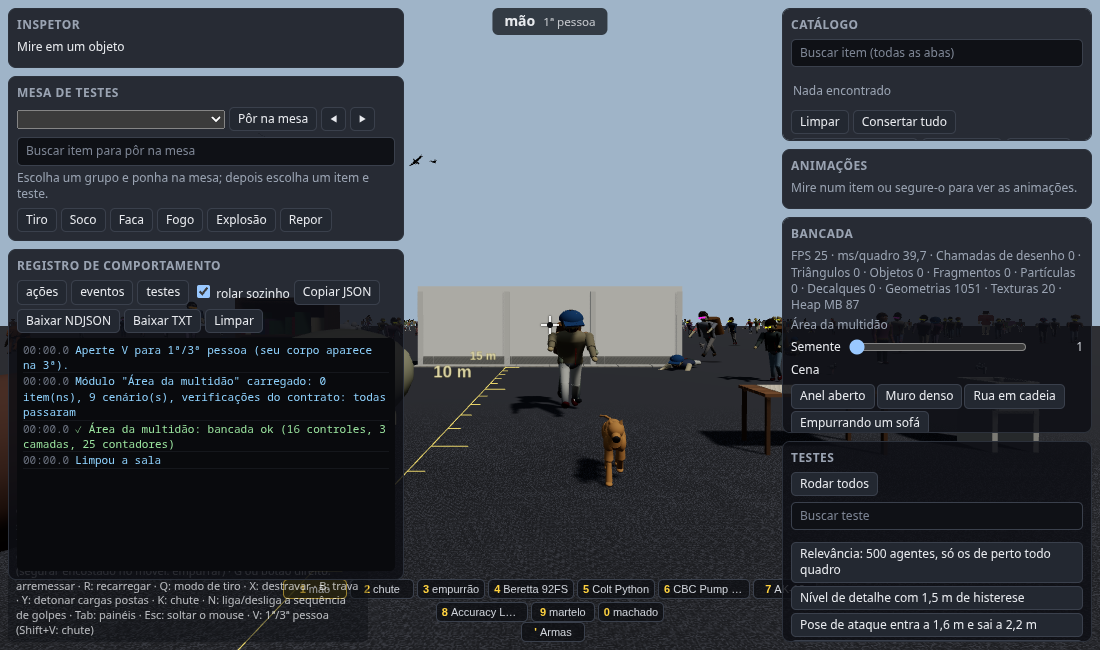
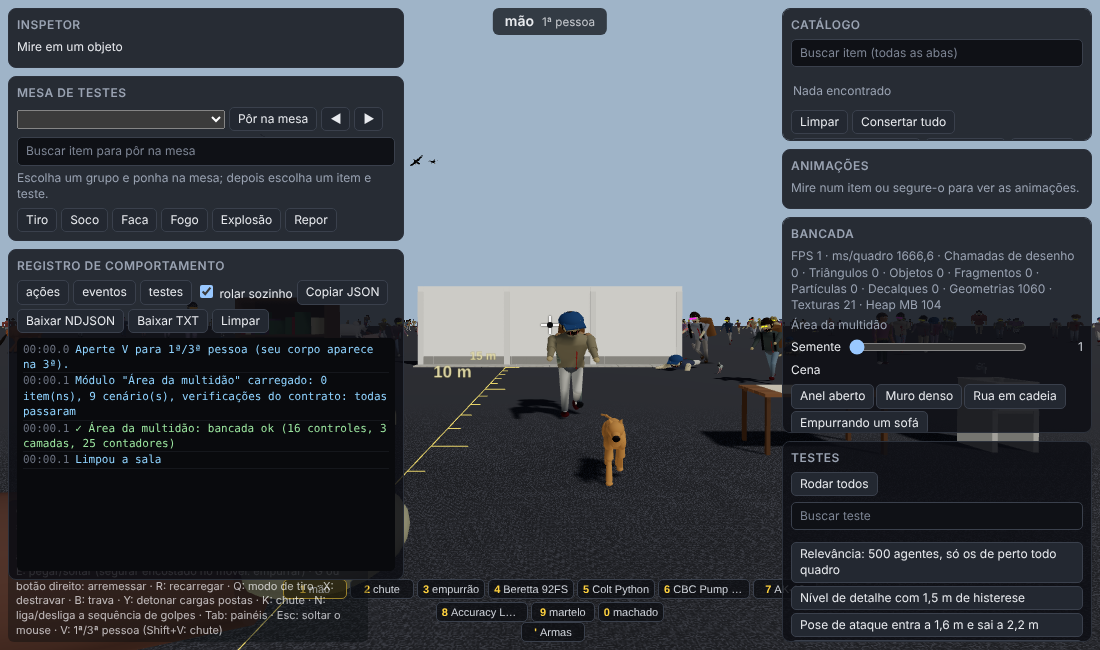
feat(workers): sala com o coordenador de workers na horda e contador de respostas
A horda da sala usa o coordenador da página (worker feito do texto embutido,
sourceSpawn), ?workers=0|N|auto. A checagem da área confere que os workers
sobem, conhecem as categorias e a física da multidão passa por eles, com
print dos contadores. WorkerKindStats ganha answered.

Claude-Session: https://claude.ai/code/session_018vCkiFwhh59g7WL1gYricM

diff --git a/examples/crowd-test-area/src/entry.js b/examples/crowd-test-area/src/entry.js
@@ -12,6 +12,7 @@ import { createRng, CROWD_PHYSICS_DEFAULTS } from '@adatechnology/game-crowd'
 import { wallPiece } from '@adatechnology/game-floorplan-three'
 import { CROWD_AREA_ID, createCrowdTestModule } from '@adatechnology/game-crowd-three/testing'
 import { create } from '@adatechnology/game-infection'
+import { roomWorkers } from './workers.js'
 
 export { createCrowdTestModule }
 
@@ -63,11 +64,15 @@ const SCENE_PROPS = {
 
 /**
  * The physics of the room's horde (D13): contact, pressure, balance, mounds, thrown bodies, blasts and personality at the package defaults, with the pressure on the player on.
- * The contact and the pressure go to a worker only in a page that is cross-origin isolated; a `file://` page is not, and the iife bundle has no worker file beside it,
- * so there the physics runs inline in the fixed step (the package falls back by itself).
+ * The contact and the pressure run as the `crowd.physics` resident of the page's worker coordinator (CLAUDE.md §14): one step behind, in a worker made from the
+ * embedded worker source, and on the main thread in a step the worker has not answered by then, so the horde moves the same with or without workers.
+ * A build that embeds no worker source keeps the package's own path (in the step).
  */
 /** @type {() => import('@adatechnology/game-crowd').CrowdPhysicsOptions} */
-const roomPhysics = () => ({ ...CROWD_PHYSICS_DEFAULTS, playerPressure: { ...CROWD_PHYSICS_DEFAULTS.playerPressure, enabled: true }, worker: globalThis.crossOriginIsolated ? 'auto' : 'off' })
+const roomPhysics = () => {
+  const workers = roomWorkers()
+  return { ...CROWD_PHYSICS_DEFAULTS, playerPressure: { ...CROWD_PHYSICS_DEFAULTS.playerPressure, enabled: true }, ...(workers ? { workers } : { worker: 'off' }) }
+}
 
 const sizeOf = (/** @type {import('@adatechnology/game-animals').AnimalSpecies} */ species) => (species.body.kind === 'quadruped' ? quadrupedLayout(species.body).size : species.body.kind === 'bird' ? birdSize(species.body) : 1)
 

diff --git a/examples/crowd-test-area/src/workers.js b/examples/crowd-test-area/src/workers.js
@@ -1,0 +1,21 @@
+// The room's one worker coordinator (CLAUDE.md §14), shared by every module of the page: `?workers=0` runs every job on the main thread,
+// `?workers=N` takes N workers, otherwise the automatic count by the machine's cores. The page's build defines `__KIT_WORKER_SOURCE__`, the
+// bundle of src/kit-worker.js; without it (a build that does not embed it) there is no coordinator and the modules keep their own path.
+import { createWorkerCoordinator, sourceSpawn } from '@adatechnology/game-workers'
+
+/** @type {import('@adatechnology/game-workers').WorkerCoordinator | null | undefined} */
+let shared
+
+/** The coordinator of this page, made once (`window.__kitWorkers`, for the checks and the stats); `null` when the build embeds no worker. */
+export function roomWorkers() {
+  if (shared !== undefined) return shared
+  // replaced by the build's `define`; absent, it reads undefined
+  const embedded = /** @type {{ __KIT_WORKER_SOURCE__?: unknown }} */ (globalThis).__KIT_WORKER_SOURCE__
+  const source = typeof embedded === 'string' ? embedded : null
+  if (!source) return (shared = null)
+  const raw = new URLSearchParams(globalThis.location?.search ?? '').get('workers')
+  const workers = raw === null || raw === 'auto' ? 'auto' : Math.max(0, Number(raw) || 0)
+  shared = createWorkerCoordinator({ spawn: sourceSpawn(source, { type: 'classic', name: 'kit-worker' }), workers })
+  ;/** @type {{ __kitWorkers?: unknown }} */ (globalThis).__kitWorkers = shared
+  return shared
+}

diff --git a/packages/game-workers/src/coordinator.ts b/packages/game-workers/src/coordinator.ts
@@ -140,7 +140,7 @@ export function createWorkerCoordinator(options: CoordinatorOptions = {}): Worke
 
   const countersOf = (kind: AnyWorkerKind, lane: WorkerLane): KindCounters => {
     let c = counters.get(kind.id)
-    if (!c) counters.set(kind.id, (c = { id: kind.id, lane, submitted: 0, onTime: 0, fallback: 0, dropped: 0, cancelled: 0, failed: 0, workerMs: 0, mainMs: 0, queueMs: 0 }))
+    if (!c) counters.set(kind.id, (c = { id: kind.id, lane, submitted: 0, answered: 0, onTime: 0, fallback: 0, dropped: 0, cancelled: 0, failed: 0, workerMs: 0, mainMs: 0, queueMs: 0 }))
     return c
   }
 
@@ -213,6 +213,7 @@ export function createWorkerCoordinator(options: CoordinatorOptions = {}): Worke
     if (!job) return
     slot.running.delete(data.id)
     job.counters.workerMs += data.ms
+    job.counters.answered++
     if (job.state === 'running') {
       if (data.ok) {
         job.state = 'done'

diff --git a/packages/game-contracts/src/workers.ts b/packages/game-contracts/src/workers.ts
@@ -101,6 +101,8 @@ export interface WorkerKindStats {
   readonly id: string
   readonly lane: WorkerLane
   readonly submitted: number
+  /** Answers that came back from a worker, on time or late. */
+  readonly answered: number
   /** Results that came from a worker before they were needed. */
   readonly onTime: number
   /** Results the main thread computed (late worker, crash, no worker). */
@@ -108,7 +110,7 @@ export interface WorkerKindStats {
   readonly dropped: number
   readonly cancelled: number
   readonly failed: number
-  /** Milliseconds inside the worker, summed. */
+  /** Milliseconds inside the worker, summed over `answered`. */
   readonly workerMs: number
   /** Milliseconds on the main thread, summed (fallbacks). */
   readonly mainMs: number

diff --git a/examples/crowd-test-area/src/kit-worker.js b/examples/crowd-test-area/src/kit-worker.js
@@ -1,0 +1,6 @@
+// The worker of the room's coordinator (CLAUDE.md §14): every kind the room's modules hand to workers. build.mjs bundles it to text and the
+// pages make their workers from it (`sourceSpawn`): a page of one file has no worker file beside it.
+import { crowdPhysicsKind } from '@adatechnology/game-crowd'
+import { installWorkerHost } from '@adatechnology/game-workers'
+
+installWorkerHost(/** @type {import('@adatechnology/game-workers').WorkerScopeLike} */ (/** @type {unknown} */ (self)), [crowdPhysicsKind])
